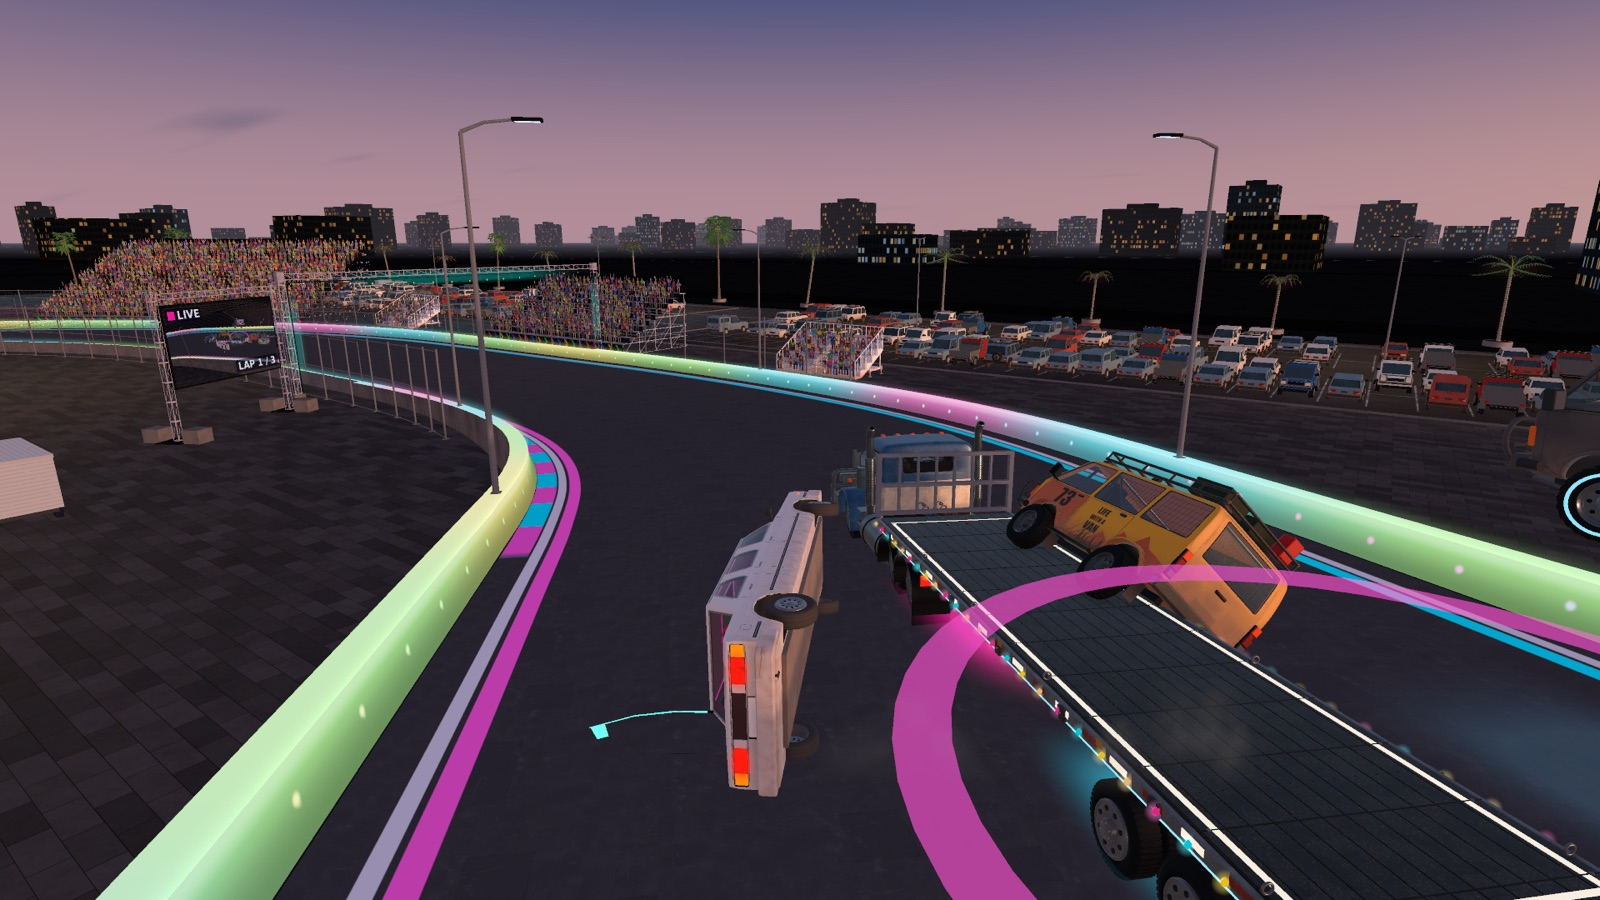
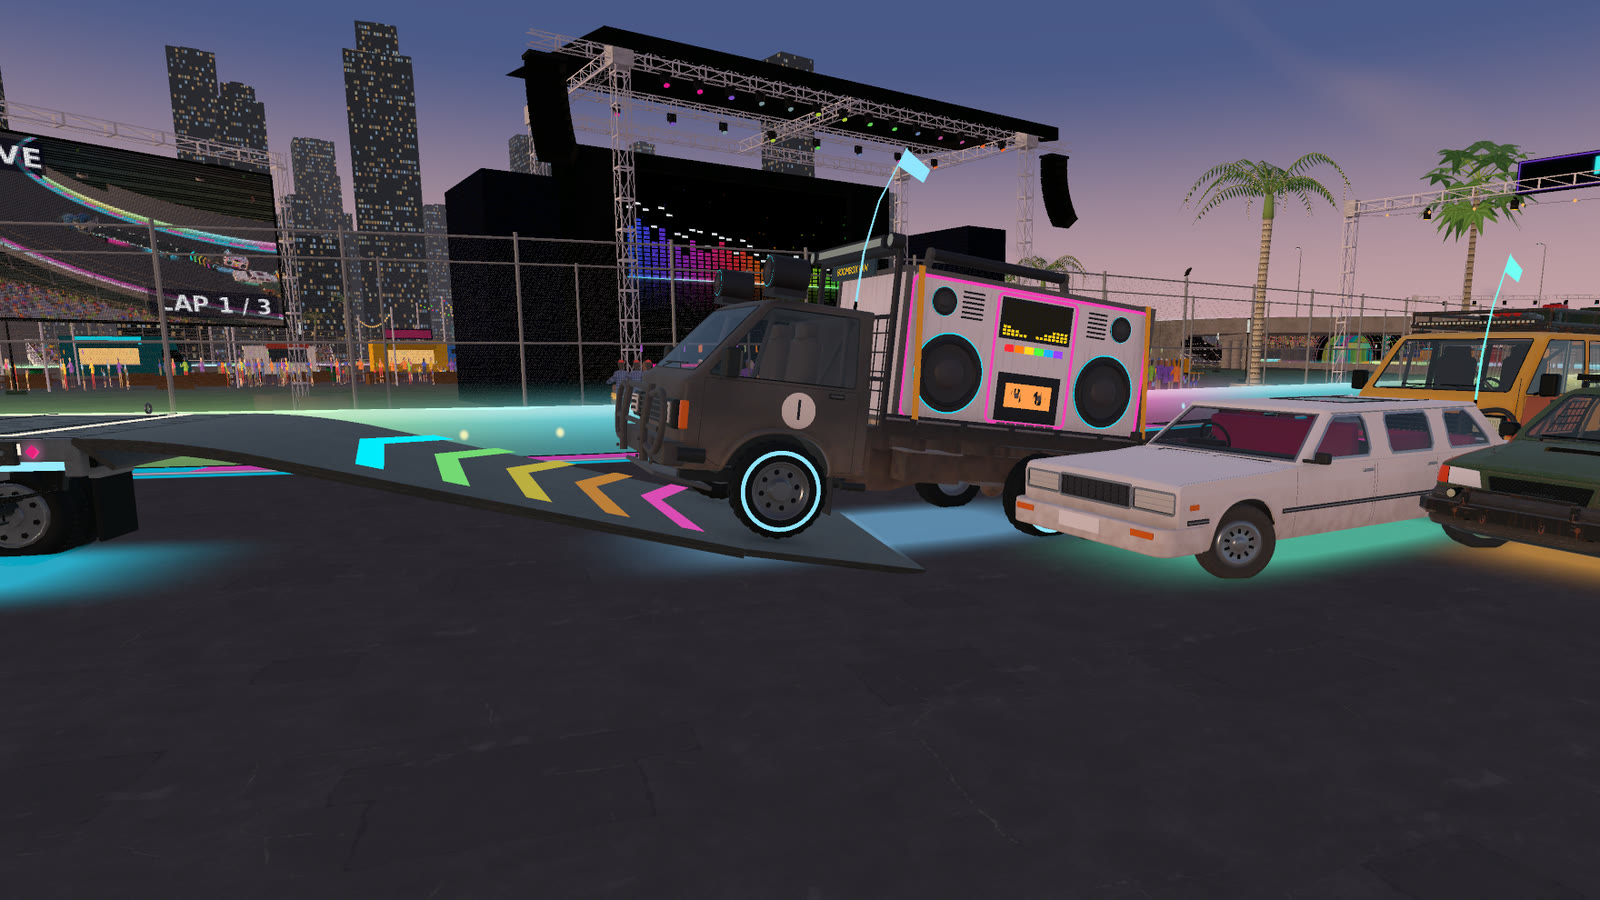
Sync from rig-king/site

diff --git a/index.html b/index.html
@@ -70,7 +70,7 @@
       <div class="wrap">
         <div class="shots">
           <figure><img src="/assets/shots/dusty-creek-1.jpg" alt="A 4x4 van flipping over the trailer's ramps as the pack piles up behind the rig at Dusty Creek Speedway" loading="lazy" width="1600" height="900"><figcaption>Dusty Creek Speedway: red dirt, a grandstand and a very crowded trailer.</figcaption></figure>
-          <figure><img src="/assets/shots/glow-party-1.jpg" alt="A car knocked sideways on the trailer as the rig rounds the neon-walled Glow Party circuit at dusk, city towers behind" loading="lazy" width="1600" height="900"><figcaption>Glow Party: neon walls on the city waterfront, and Glow Time doubles every second aboard.</figcaption></figure>
+          <figure><img src="/assets/shots/glow-party-1.jpg" alt="The Boombox Van climbs the trailer ramp at Glow Party, in front of the stage, its equaliser wall and the big LIVE screen showing the lap" loading="lazy" width="1600" height="900"><figcaption>Glow Party: the stage, the big screen and the Boombox Van on the city waterfront, where Glow Time doubles every second aboard.</figcaption></figure>
           <figure><img src="/assets/shots/sea-cliff-1.jpg" alt="A 4x4 van tumbling beside the rig on the bridge road at sunset over the sea on Sea Cliff Run" loading="lazy" width="1600" height="900"><figcaption>Sea Cliff Run: the cliff road at sunrise, then into the cathedral tunnel.</figcaption></figure>
           <figure><img src="/assets/shots/nightcap-1.jpg" alt="A car flipping off the trailer on the rainforest road of Nightcap Drive" loading="lazy" width="1600" height="900"><figcaption>Nightcap Drive: up through the Northern Rivers rainforest to the ridge tunnel.</figcaption></figure>
           <figure><img src="/assets/shots/croc-river-1.jpg" alt="Cars piled up behind the ice cream van at the trailer's ramps on the river road of Croc River Run" loading="lazy" width="1600" height="900"><figcaption>Croc River Run: the river road, the ferry fight, then the Daintree trail.</figcaption></figure>

diff --git a/tracks/index.html b/tracks/index.html
@@ -120,7 +120,7 @@
         <p>The one night out on the calendar: a temporary street circuit on an inner-city waterfront, laid out as a figure eight that crosses itself at the X. Neon walls glow along both lobes, a grandstand packs the straight, and the carnival sits on the east side, with a Ferris wheel, a drop tower and the games alley. The city is fictional; the figure-eight format is a real grassroots speedway tradition.</p>
         <p><b>What's unique:</b> Glow Time. The big screens count down, "GLOW TIME IN 8", and while the music drops every second aboard counts double, so the whole field rushes the deck at once. The Glow Wash, a bubble-filled LED car-wash tunnel on its own lane, refills your kit and repairs your car if you are willing to leave the fight for it. It comes with two party cars that race on every track: the Boombox Van and its Bass Drop, and the Party Limo and its Pink Fizz. Settings → Reduce flashing turns the strobes into steady glows.</p>
         <div class="shots">
-          <figure><img src="/assets/shots/glow-party-1.jpg" alt="A car knocked sideways on the trailer as the rig rounds the neon-walled Glow Party circuit at dusk, city towers behind" loading="lazy" width="1600" height="900"></figure>
+          <figure><img src="/assets/shots/glow-party-1.jpg" alt="The Boombox Van climbs the trailer ramp at Glow Party, in front of the stage, its equaliser wall and the big LIVE screen showing the lap" loading="lazy" width="1600" height="900"></figure>
           <figure><img src="/assets/shots/glow-party-2.jpg" alt="The Boombox Van chasing the rig down the neon-lit straight past the grandstand at Glow Party" loading="lazy" width="1600" height="900"></figure>
         </div>
       </section>
